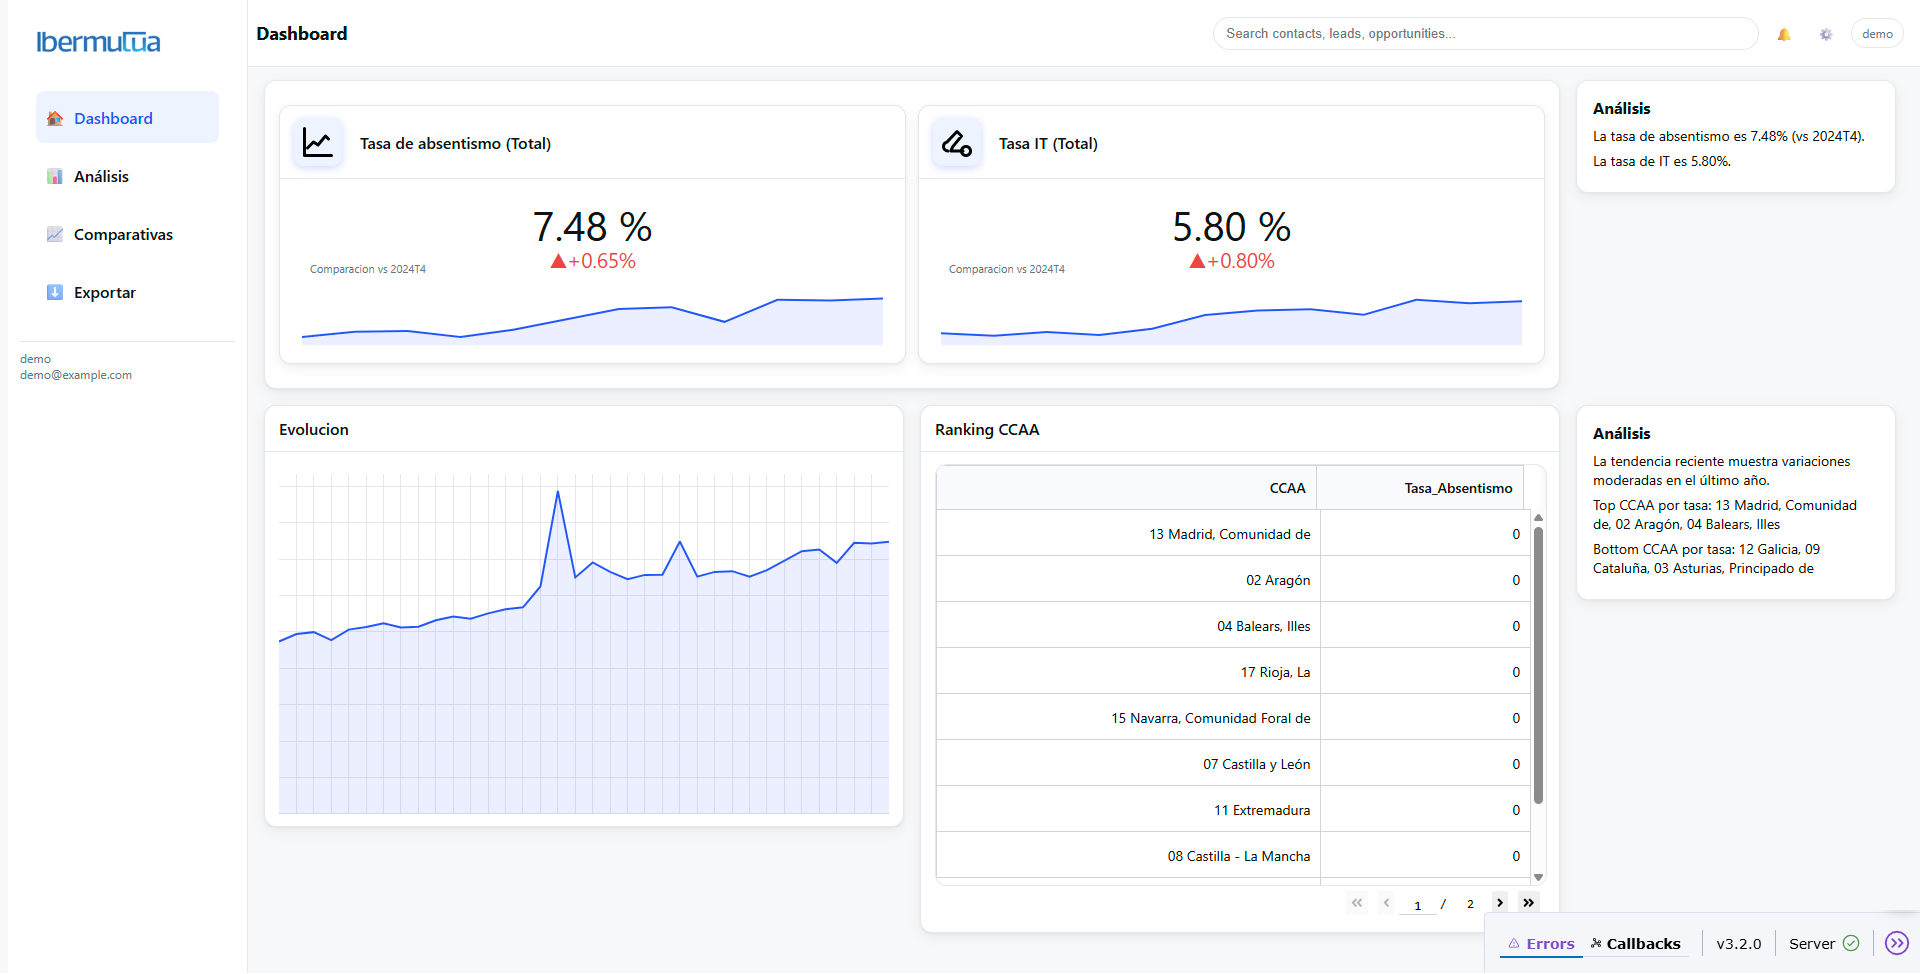
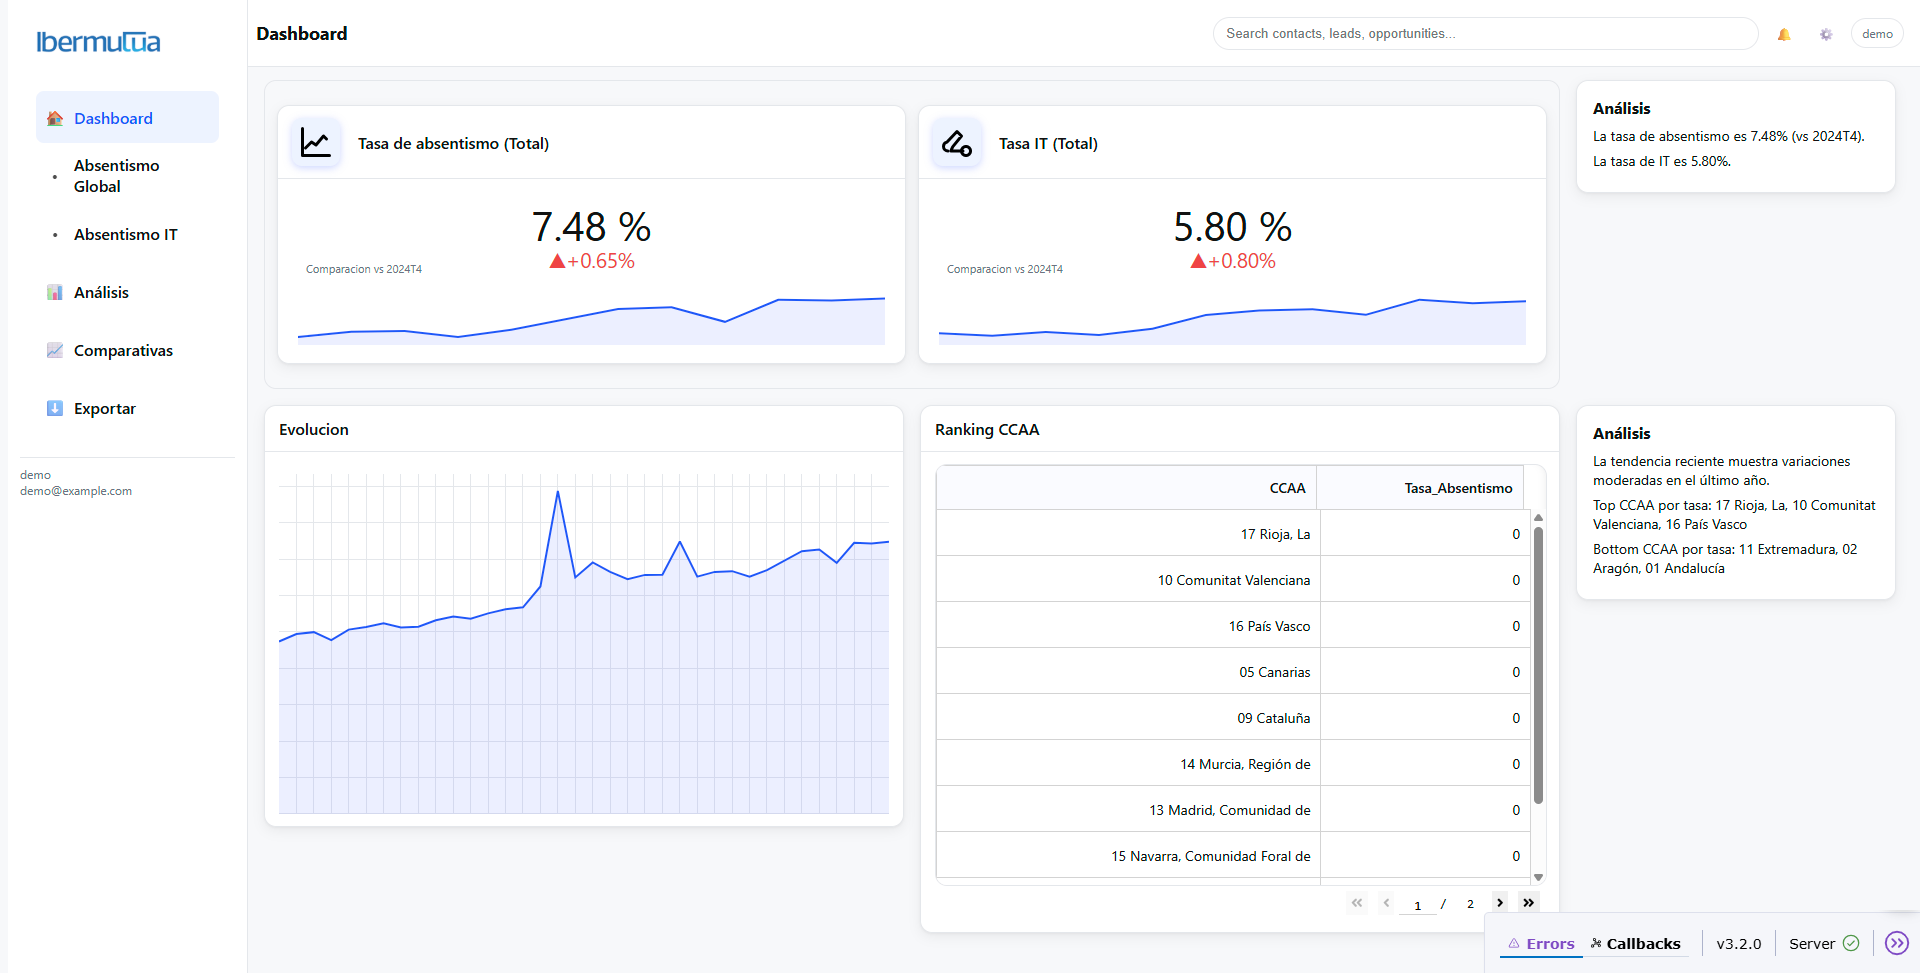
nav: estructura de sidebar por niveles (Dashboard, Global[Análisis/Comparativas], IT[Análisis/Comparativas]); páginas stub creadas

diff --git a/apps/dash/assets/z-overrides.css b/apps/dash/assets/z-overrides.css
@@ -21,6 +21,7 @@
 .sidebar .nav a.active, .sidebar .nav a:hover { color: var(--color-primary); background: #eef3ff; }
 .sidebar .nav a .icon { width:18px; display:inline-flex; align-items:center; justify-content:center; opacity:.75; }
 .sidebar .nav a.active .icon { opacity:1; }
+.sidebar .group-title { padding: 8px 10px; margin-top: 10px; color: var(--color-muted); font-size: 12px; text-transform: uppercase; letter-spacing: .02em; }
 .sidebar .sidebar-user { position: sticky; bottom: 0; margin-top: 16px; padding-top: 8px; border-top: 1px solid var(--border-color); font-size: 12px; color: var(--color-muted); }
 
 .content { margin-left: var(--sidebar-w); }

diff --git a/apps/dash/app.py b/apps/dash/app.py
@@ -35,6 +35,10 @@ def _icon_for(path: str) -> str:
 def _label_for(path: str, default: str) -> str:
     return {
         "/": "Dashboard",
+        "/global/analisis": "Análisis",
+        "/global/comparativas": "Comparativas",
+        "/it/analisis": "Análisis",
+        "/it/comparativas": "Comparativas",
         "/analisis": "Análisis",
         "/comparativas": "Comparativas",
         "/exportar": "Exportar",
@@ -43,15 +47,30 @@ def _label_for(path: str, default: str) -> str:
 
 def _build_sidebar_links(current_path: str = "/"):
     links = []
-    for p in _sorted_pages():
-        path = p.get("path", "/")
-        name = _label_for(path, p.get("name", p["module"]).replace("apps.dash.pages.", ""))
-        cls = "active" if path == (current_path or "/") else ""
+    # Dashboard
+    links.append(
+        dcc.Link([
+            html.Span(_icon_for("/"), className="icon"),
+            html.Span("Dashboard", className="label"),
+        ], href="/", className=("active" if (current_path or "/") == "/" else ""), title="Dashboard")
+    )
+    # Grupo: Absentismo Global
+    links.append(html.Div("Absentismo Global", className="group-title"))
+    for sub in ["/global/analisis", "/global/comparativas"]:
         links.append(
             dcc.Link([
-                html.Span(_icon_for(path), className="icon"),
-                html.Span(name, className="label"),
-            ], href=path, className=cls, title=name)
+                html.Span(_icon_for(sub), className="icon"),
+                html.Span(_label_for(sub, sub.split("/")[-1].title()), className="label"),
+            ], href=sub, className=("active" if (current_path or "").startswith(sub) else ""), title=sub)
+        )
+    # Grupo: Absentismo IT
+    links.append(html.Div("Absentismo IT", className="group-title"))
+    for sub in ["/it/analisis", "/it/comparativas"]:
+        links.append(
+            dcc.Link([
+                html.Span(_icon_for(sub), className="icon"),
+                html.Span(_label_for(sub, sub.split("/")[-1].title()), className="label"),
+            ], href=sub, className=("active" if (current_path or "").startswith(sub) else ""), title=sub)
         )
     return links
 
@@ -139,3 +158,4 @@ def _apply_sidebar_state(ui):
 
 if __name__ == "__main__":
     app.run(debug=True, host="127.0.0.1", port=8050)
+

diff --git a/apps/dash/pages/global_comparativas.py b/apps/dash/pages/global_comparativas.py
@@ -1,0 +1,12 @@
+from dash import html, register_page
+
+register_page(__name__, path="/global/comparativas", name="Comparativas (Global)", title="Comparativas - Global")
+
+def layout():
+    return html.Div([
+        html.Div([
+            html.H3("Comparativas (Global)"),
+            html.P("Espacio para comparativas globales (por sectores, geografía, etc.)."),
+        ], className="page")
+    ])
+

diff --git a/apps/dash/pages/it_comparativas.py b/apps/dash/pages/it_comparativas.py
@@ -1,0 +1,12 @@
+from dash import html, register_page
+
+register_page(__name__, path="/it/comparativas", name="Comparativas (IT)", title="Comparativas - IT")
+
+def layout():
+    return html.Div([
+        html.Div([
+            html.H3("Comparativas (IT)"),
+            html.P("Espacio para comparativas IT (por sectores, geografía, etc.)."),
+        ], className="page")
+    ])
+

diff --git a/apps/dash/pages/global_analisis.py b/apps/dash/pages/global_analisis.py
@@ -1,0 +1,2 @@
+from .global import *  # reuse layout/callback as analysis for now
+

diff --git a/apps/dash/pages/it_analisis.py b/apps/dash/pages/it_analisis.py
@@ -1,0 +1,2 @@
+from .it import *  # reuse layout/callback as analysis for now
+
